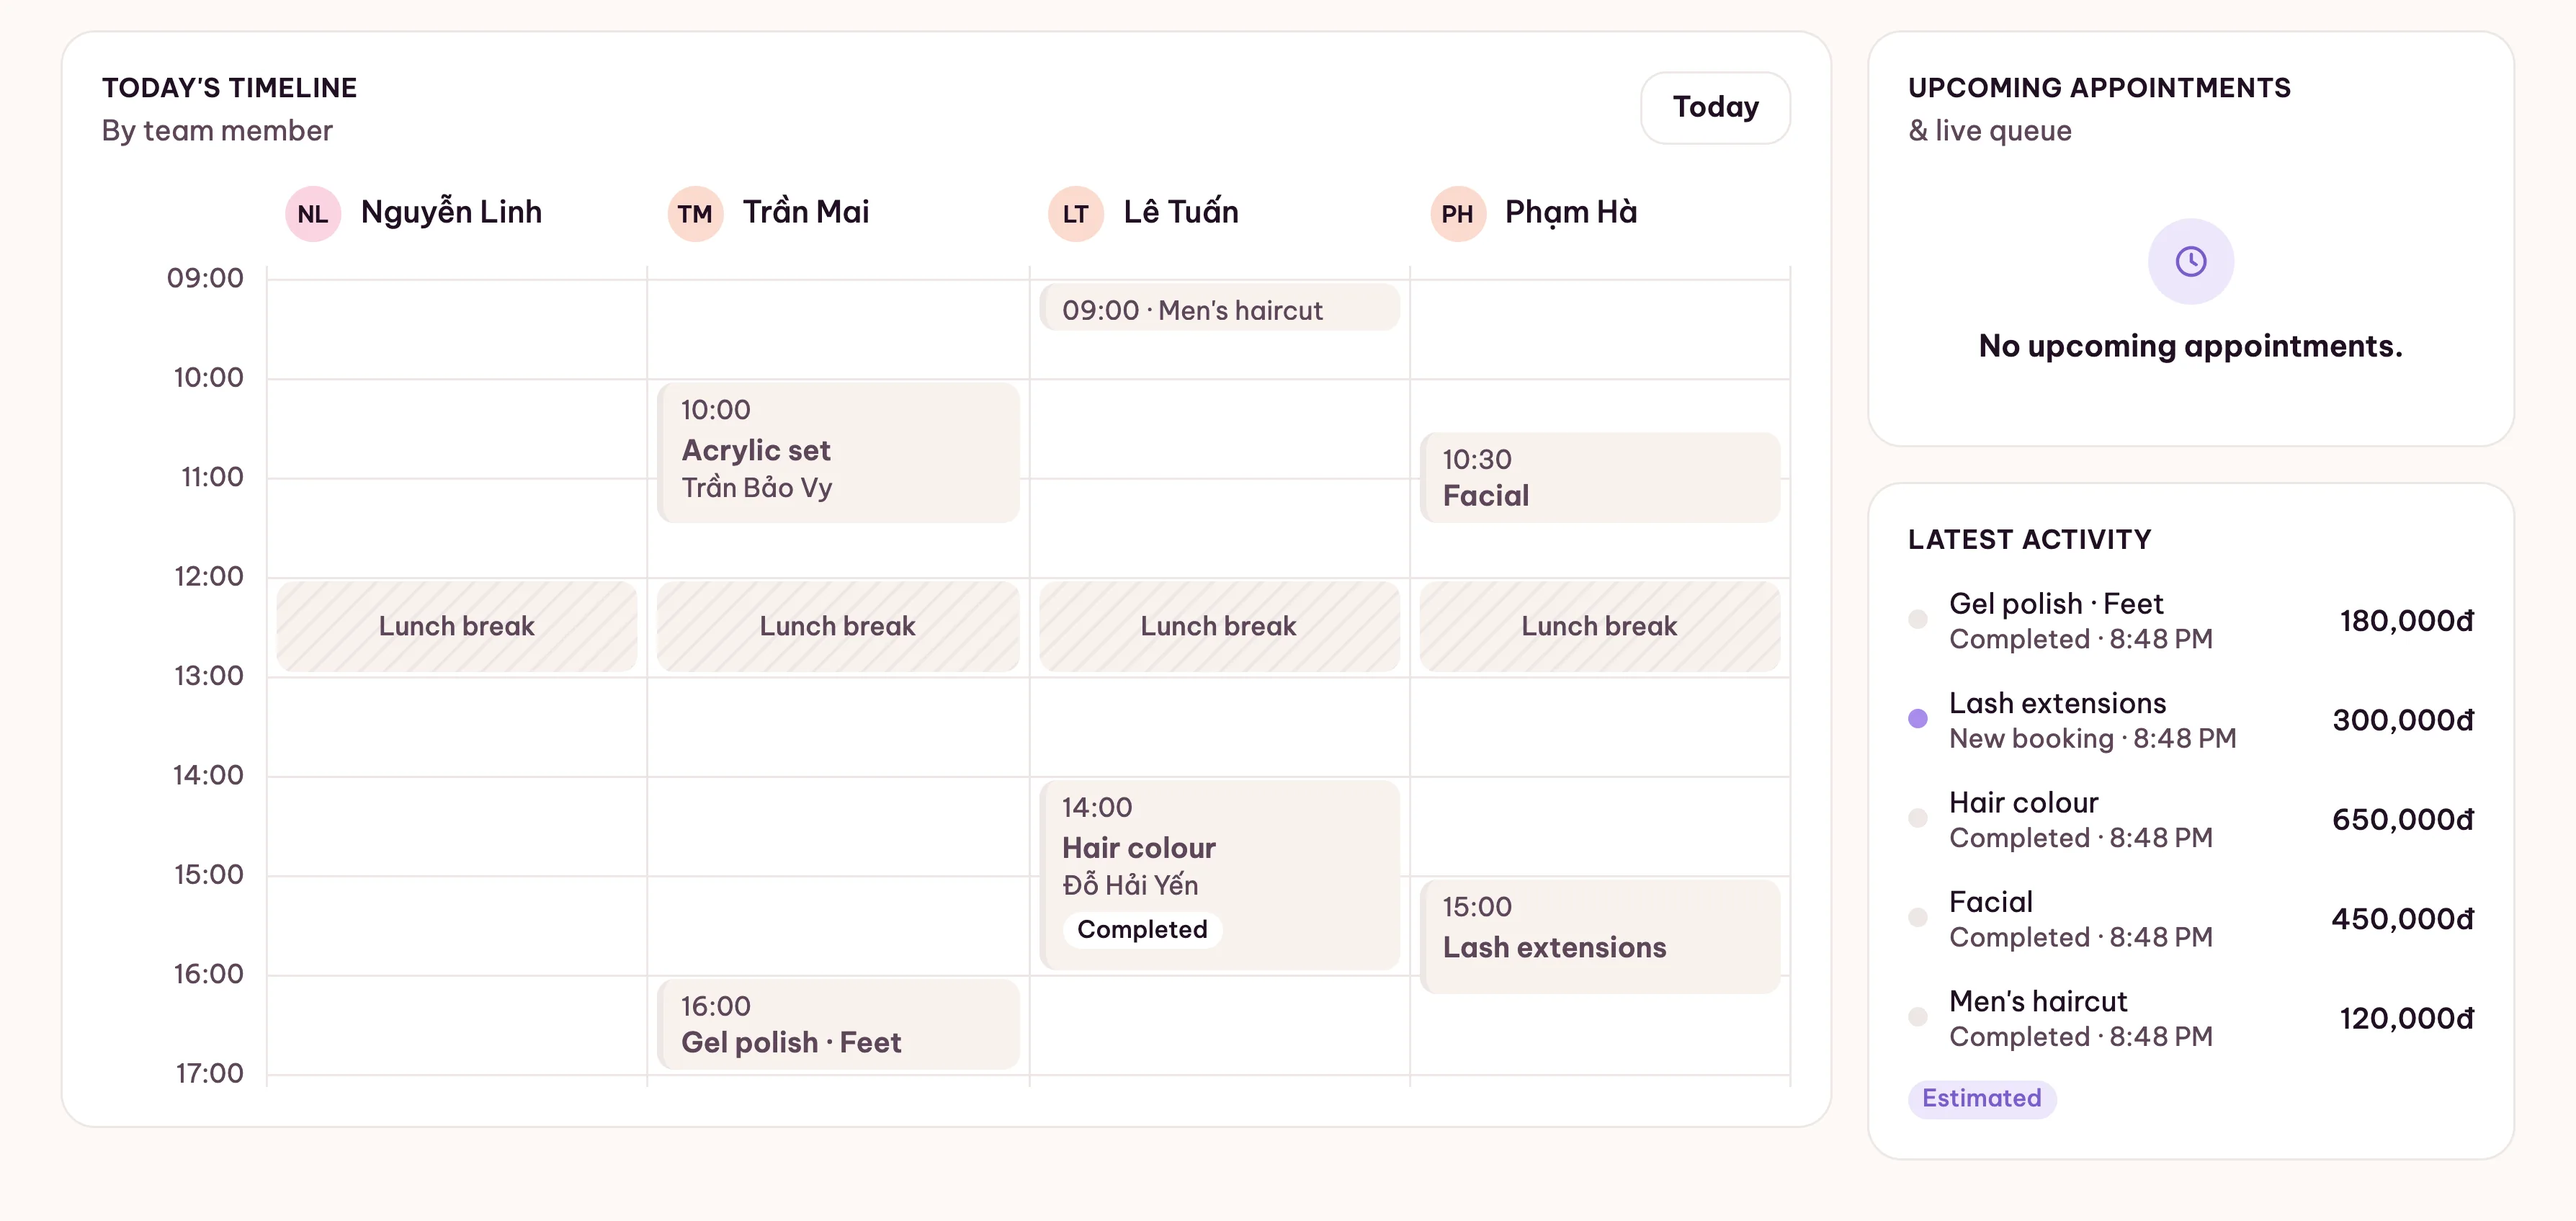
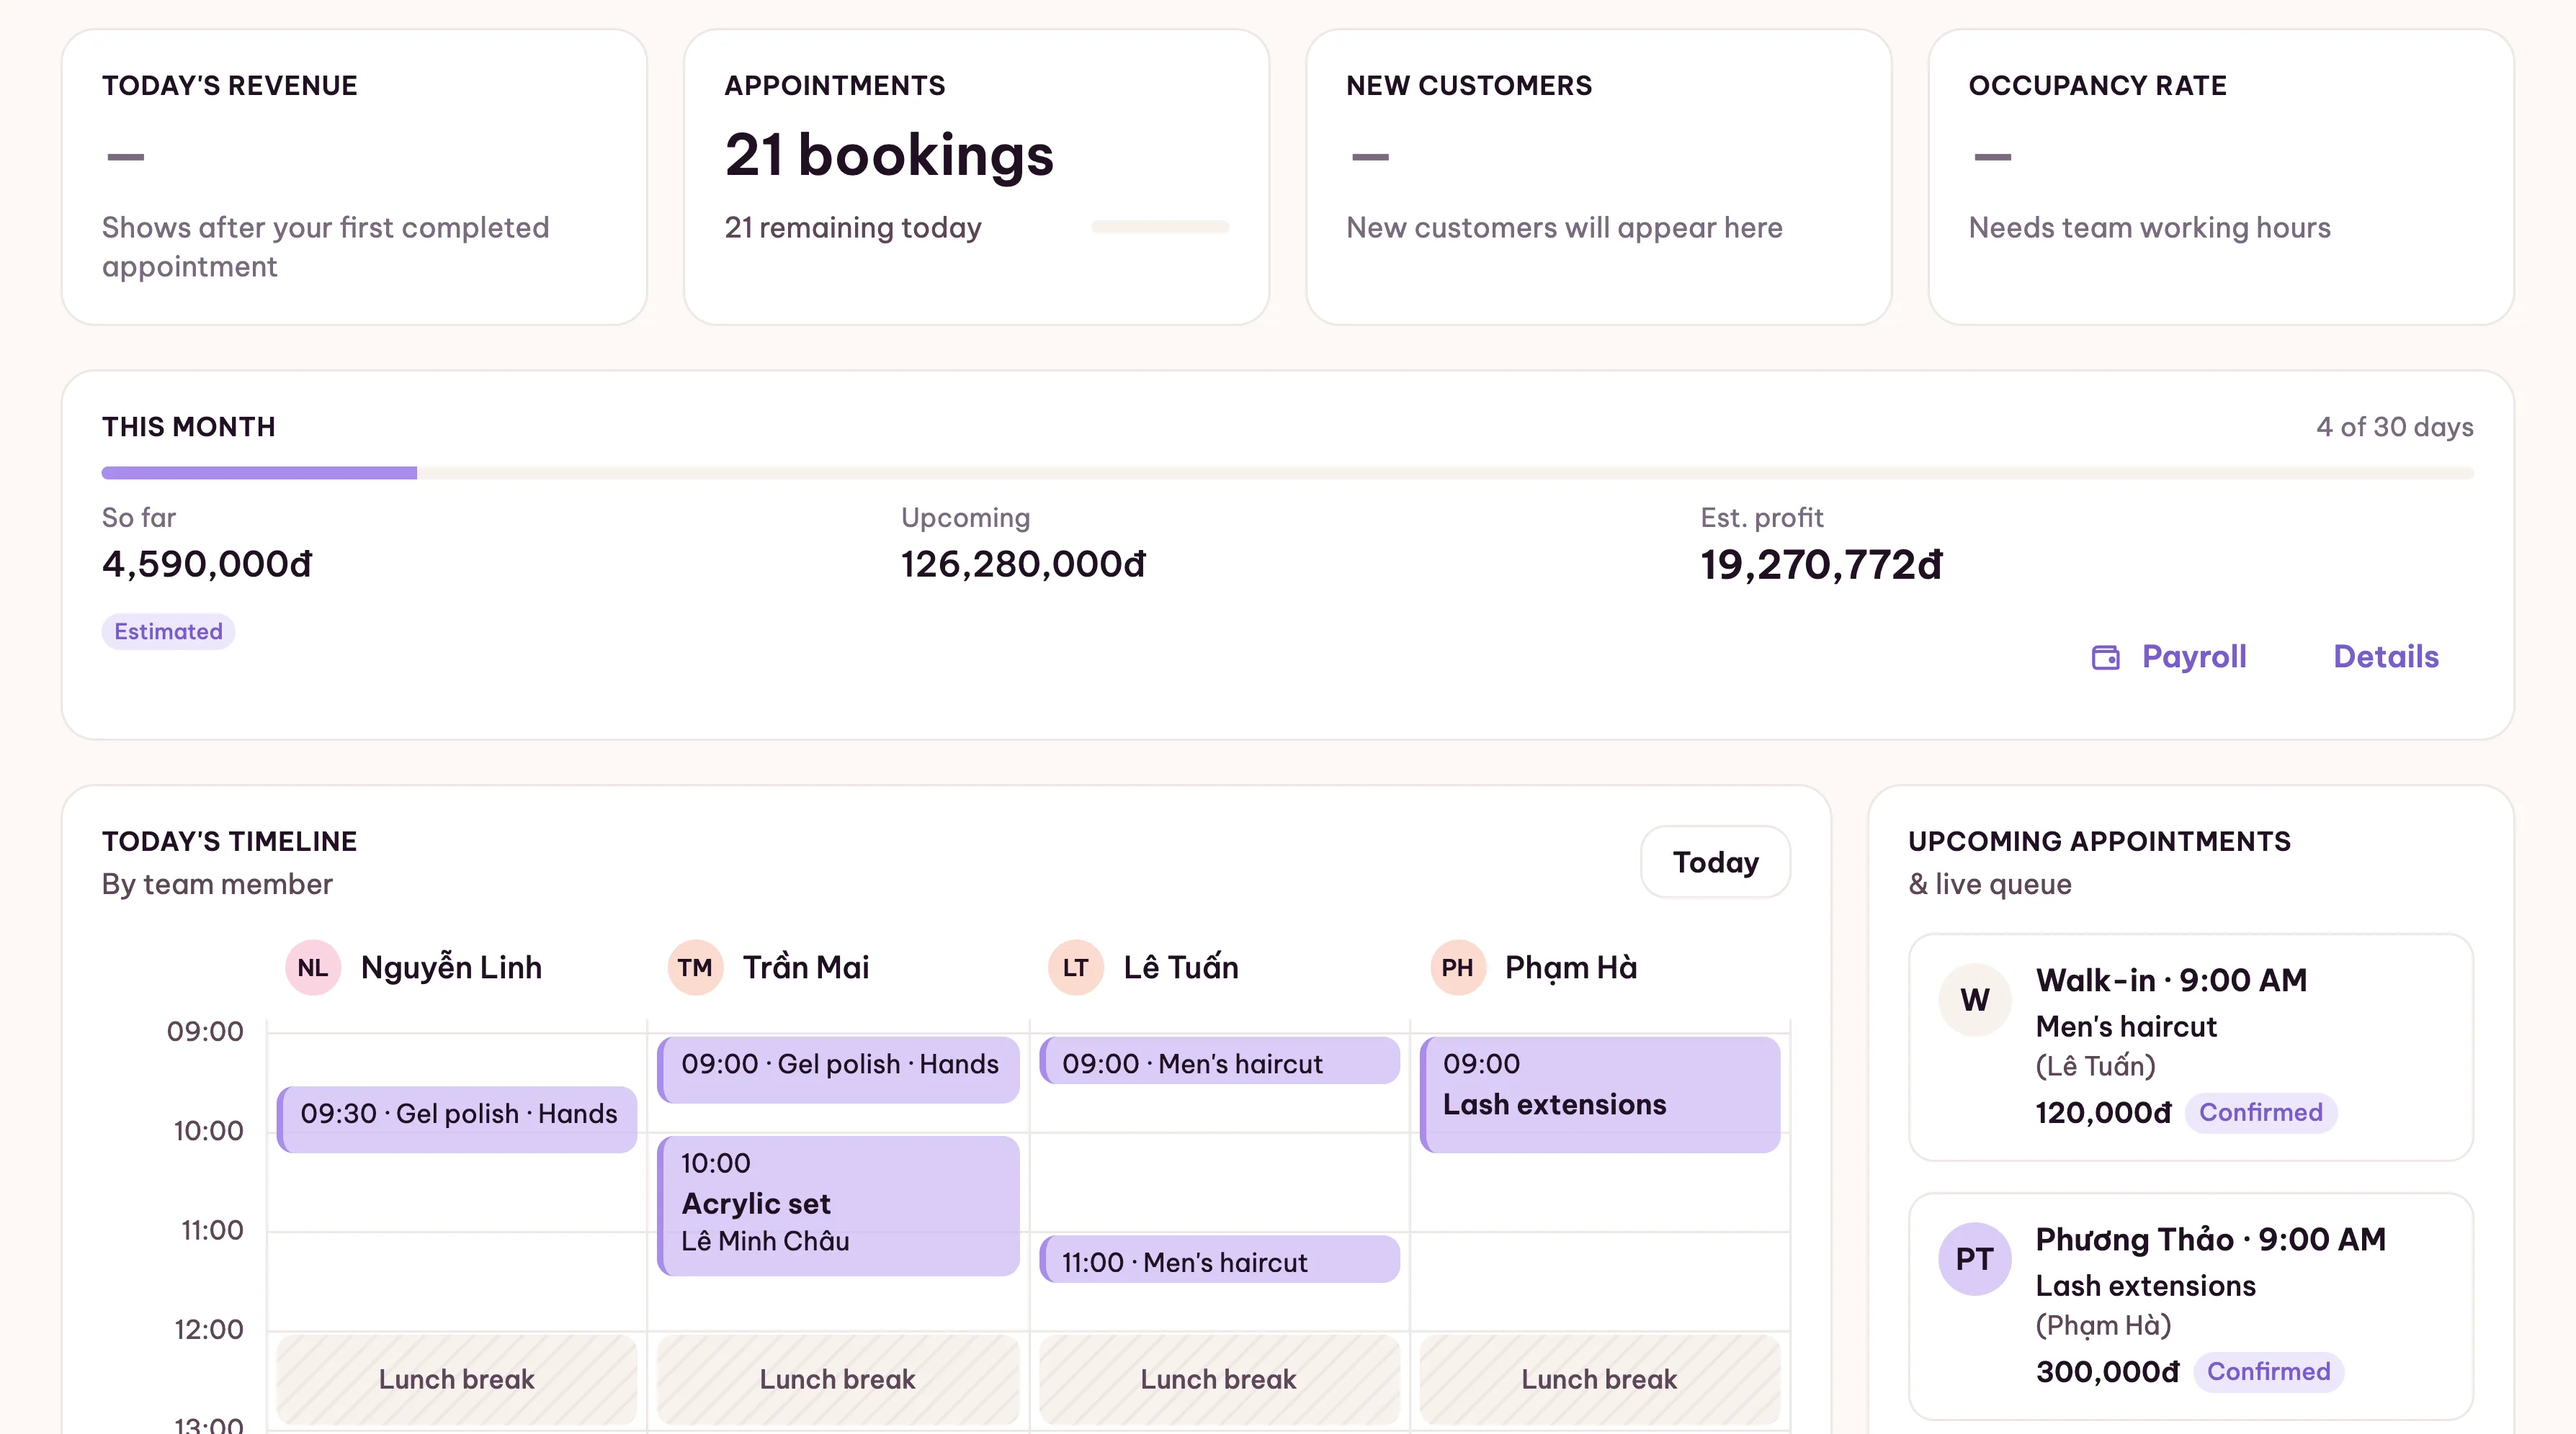
feat(02): round 4 — realistic positive demo month, "Tháng này" profit card in the office scene, retaken crops
- scripts/landing-demo-busier.mjs: adds realistic bookings for the rest of the month on the
  private capture DB only (cookie session + CSRF from /me); month goes to +19.27M ₫ (16 % margin)
- overview crop now covers the KPI row, the "Tháng này" card and the team timeline
- retook overview, timeline, appointments-crop, insights-month (vi + en, 2x/3x)
- QA notes: vi copy approved by the owner's side; q101 = NO (no onboarding-help promise anywhere)

diff --git a/docs/qa/02-landing-flow/README.md b/docs/qa/02-landing-flow/README.md
@@ -199,7 +199,9 @@ All pages are reachable forward and backward by Next/Prev, keys, swipes and the 
 - New tokens: `motion`, `danger*`, `zalo`, `paper*`, `sheet*`, `gradient.glowSoft` + `cssGradient`. Raw hex in the landing feature dropped from 108 on main to 48.
 - Insights and payroll figures go through `Intl` / `formatVND`. 99,000 VND comes from one constant via `{{price}}`. The Basic card CTA says "Bắt đầu miễn phí".
 
-## Copy changes needing vi review (`i18n:vi-review`)
+## vi copy: approved (owner's side, 2026-11-04)
+
+The vi copy below was reviewed and approved by the owner's side; the `i18n:vi-review` markers in earlier commit messages are resolved. For the record, the keys that changed:
 
 - **`flow.hud`:** `c2` (Phòng làm → Phòng dịch vụ), `c4` (Chuyển từ sổ/app cũ), `finish` (Kết thúc hành trình), `prev`, `page`, `hintKeys`, `hintTouch`.
 - **`flow.features`:** `chip` (14:00 → 10:00, to match the visible booking), `callAppt`, `callSvc`. The `r4*` keys were removed (three facts only).
